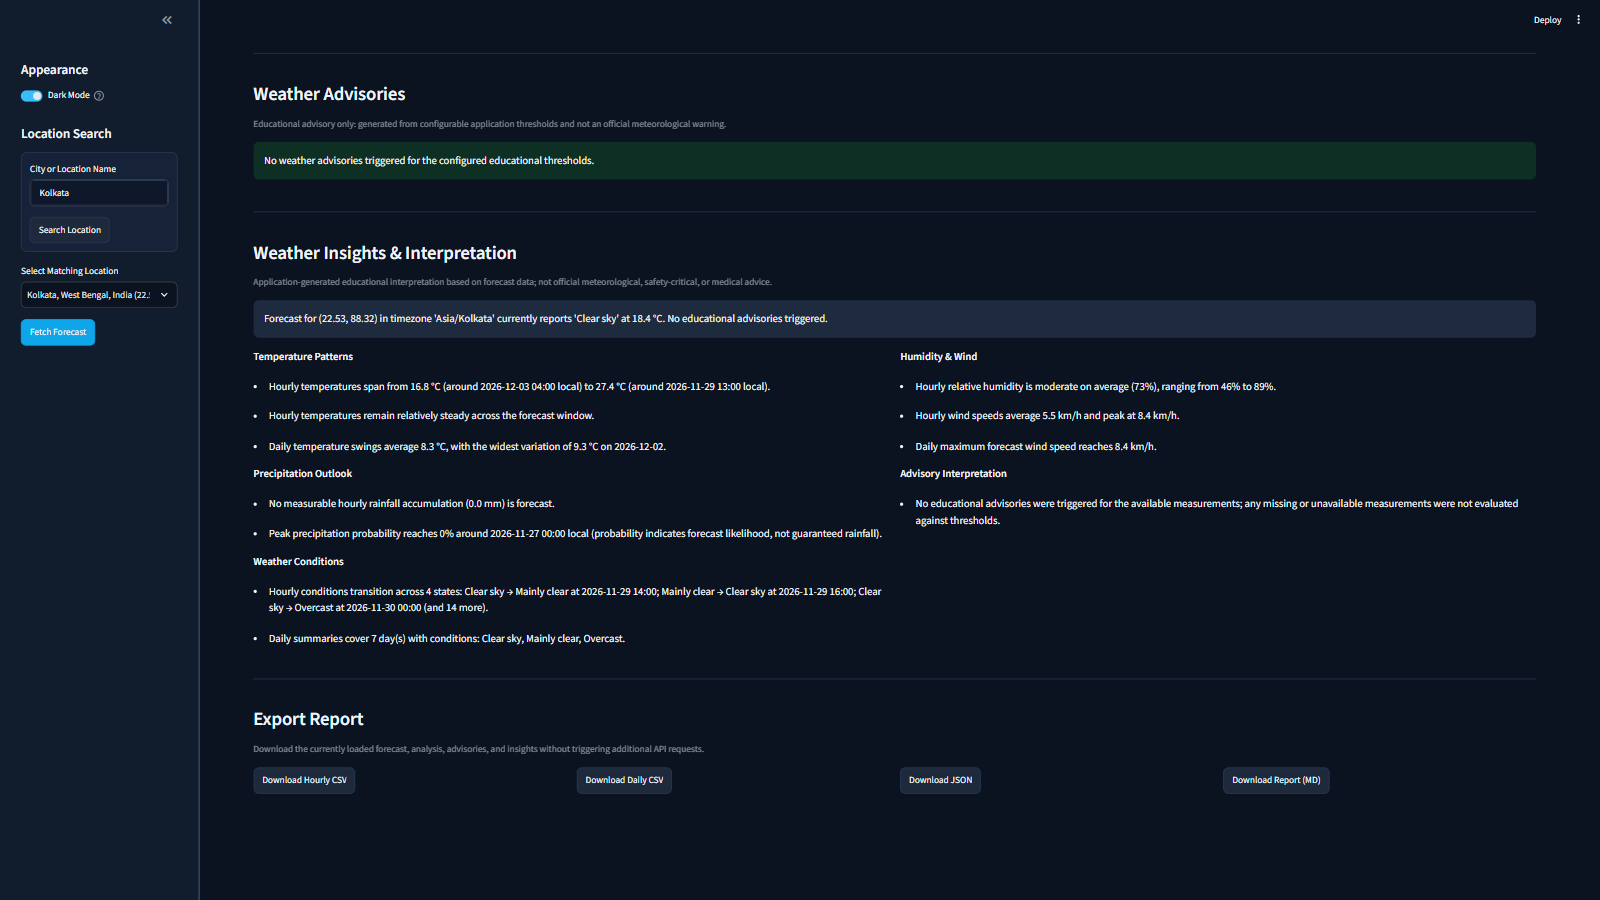
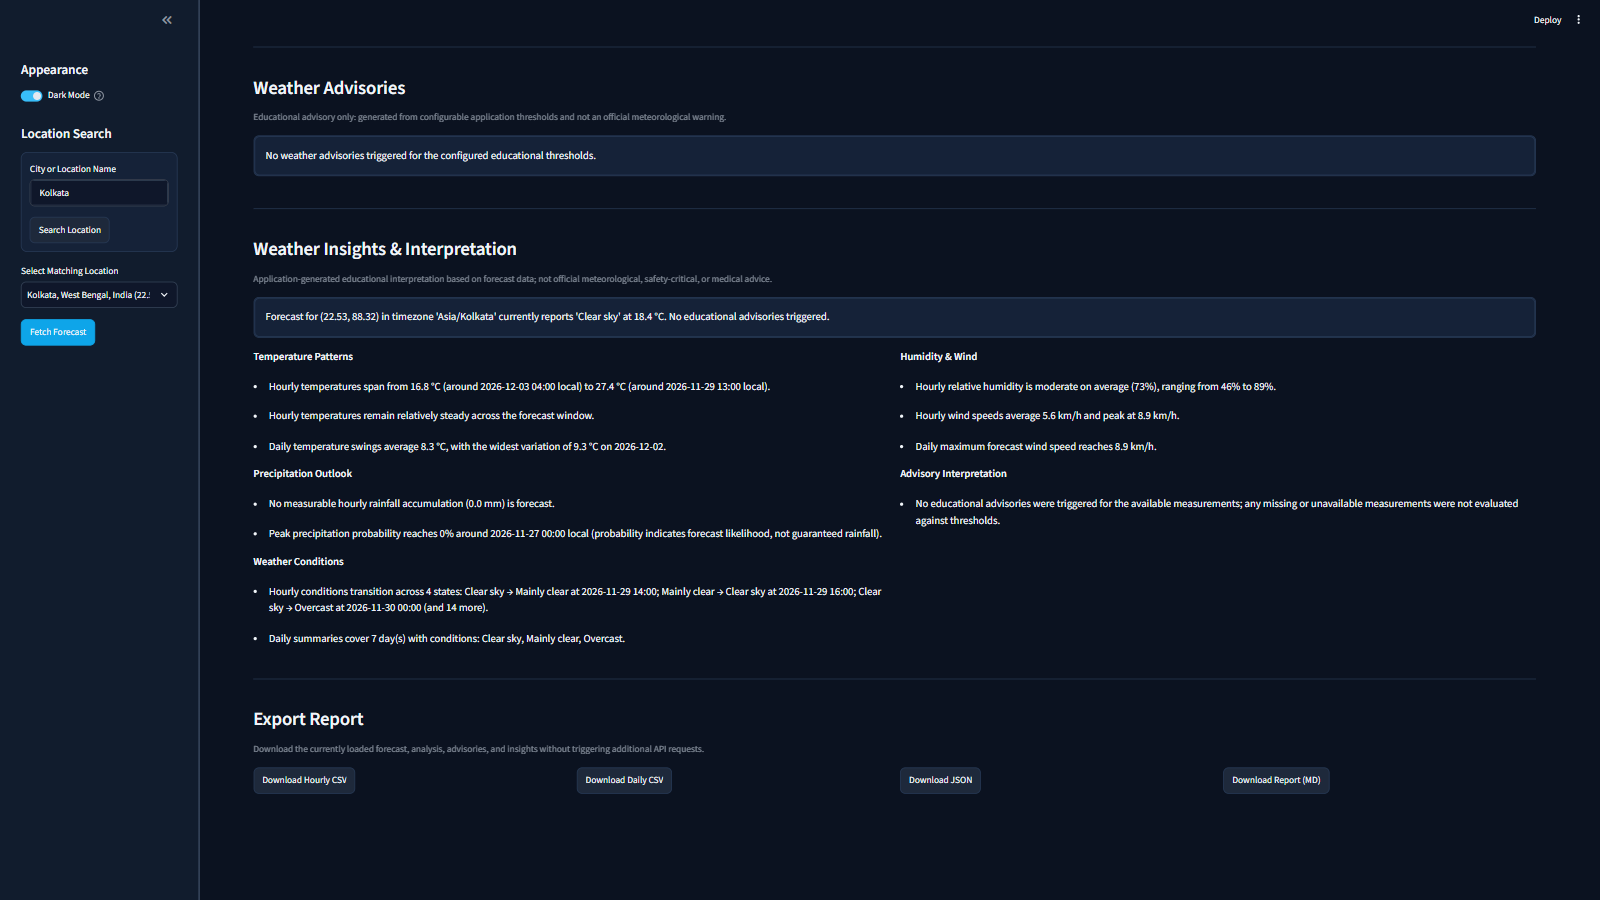
fix(ui): correct location selectbox styling in light mode

Changed region(s): [[0.1562, 0.0933, 0.9688, 0.2178], [0.1562, 0.2489, 0.5312, 0.3733]]

diff --git a/src/weather_app/ui/theme.py b/src/weather_app/ui/theme.py
@@ -131,6 +131,7 @@ def build_theme_css(palette: ThemePalette) -> str:
     --wx-primary-btn-text: {palette.primary_button_text};
     --wx-input-bg: {palette.input_bg};
     --wx-input-border: {palette.input_border};
+    --wx-info-bg: {palette.info_bg};
     --wx-divider: {palette.divider_color};
 }}
 
@@ -193,26 +194,71 @@ def build_theme_css(palette: ThemePalette) -> str:
     border: 1px solid var(--wx-input-border) !important;
 }}
 
-[data-testid="stSelectbox"] [data-baseweb="select"],
-[data-testid="stSelectbox"] [data-baseweb="select"] div {{
+[data-testid="stSelectbox"] [role="group"] {{
     background-color: var(--wx-input-bg) !important;
     color: var(--wx-text-primary) !important;
-    border-color: var(--wx-input-border) !important;
+    border: 1px solid var(--wx-input-border) !important;
+}}
+
+[data-testid="stSelectbox"] [role="group"]:focus-within {{
+    border-color: var(--wx-accent) !important;
+    box-shadow: 0 0 0 1px var(--wx-accent) !important;
+}}
+
+[data-testid="stSelectbox"] input[role="combobox"] {{
+    color: var(--wx-text-primary) !important;
+    caret-color: var(--wx-text-primary) !important;
+}}
+
+[data-testid="stSelectbox"] input[role="combobox"]::placeholder {{
+    color: var(--wx-text-secondary) !important;
+}}
+
+[data-testid="stSelectbox"] button {{
+    background-color: transparent !important;
+    border: none !important;
+    color: var(--wx-text-primary) !important;
+}}
+
+[data-testid="stSelectbox"] svg {{
+    color: var(--wx-text-primary) !important;
+}}
+
+[data-testid="stSelectbox"] svg path:not([fill="none"]) {{
+    fill: currentColor !important;
+}}
+
+[data-testid="stSelectboxVirtualDropdown"] {{
+    background-color: var(--wx-card-bg) !important;
+    color: var(--wx-text-primary) !important;
+    border: 1px solid var(--wx-input-border) !important;
+}}
+
+[data-testid="stSelectboxVirtualDropdown"] [role="listbox"] {{
+    background-color: var(--wx-card-bg) !important;
+    color: var(--wx-text-primary) !important;
+}}
+
+[data-testid="stSelectboxVirtualDropdown"] [role="option"],
+[data-testid="stSelectboxVirtualDropdown"] [role="option"] * {{
+    color: var(--wx-text-primary) !important;
+}}
+
+[data-testid="stSelectboxVirtualDropdown"] [role="option"][aria-selected="true"] {{
+    background-color: {palette.tab_active_bg} !important;
+    font-weight: 600;
+}}
+
+[data-testid="stSelectboxVirtualDropdown"] [role="option"][data-hovered] [data-item-hl],
+[data-testid="stSelectboxVirtualDropdown"] [role="option"][data-focused] [data-item-hl],
+[data-testid="stSelectboxVirtualDropdown"] [role="option"]:hover {{
+    background-color: var(--wx-info-bg) !important;
 }}
 
 .stApp code {{
     background-color: var(--wx-card-bg) !important;
     color: var(--wx-text-primary) !important;
     border: 1px solid var(--wx-card-border);
-}}
-
-[data-testid="stSelectbox"] [data-baseweb="select"] span,
-[data-testid="stSelectbox"] [data-baseweb="select"] input {{
-    color: var(--wx-text-primary) !important;
-}}
-
-[data-testid="stSelectbox"] svg {{
-    fill: var(--wx-text-primary) !important;
 }}
 
 [data-testid="stButton"] button,

diff --git a/tests/test_dashboard.py b/tests/test_dashboard.py
@@ -264,6 +264,12 @@ class TestStreamlitDashboardApp:
         assert mock_get_data.call_count == 1
         assert len(at.metric) == 6
         assert any("--wx-app-bg: #f8fafc;" in md.value for md in at.markdown)
+        assert any(
+            '[data-testid="stSelectbox"] [role="group"]' in md.value
+            and '[data-testid="stSelectboxVirtualDropdown"]' in md.value
+            and "--wx-input-bg: #ffffff;" in md.value
+            for md in at.markdown
+        )
 
         # Ordinary rerun preserves Light Mode without fetching
         at.run()
